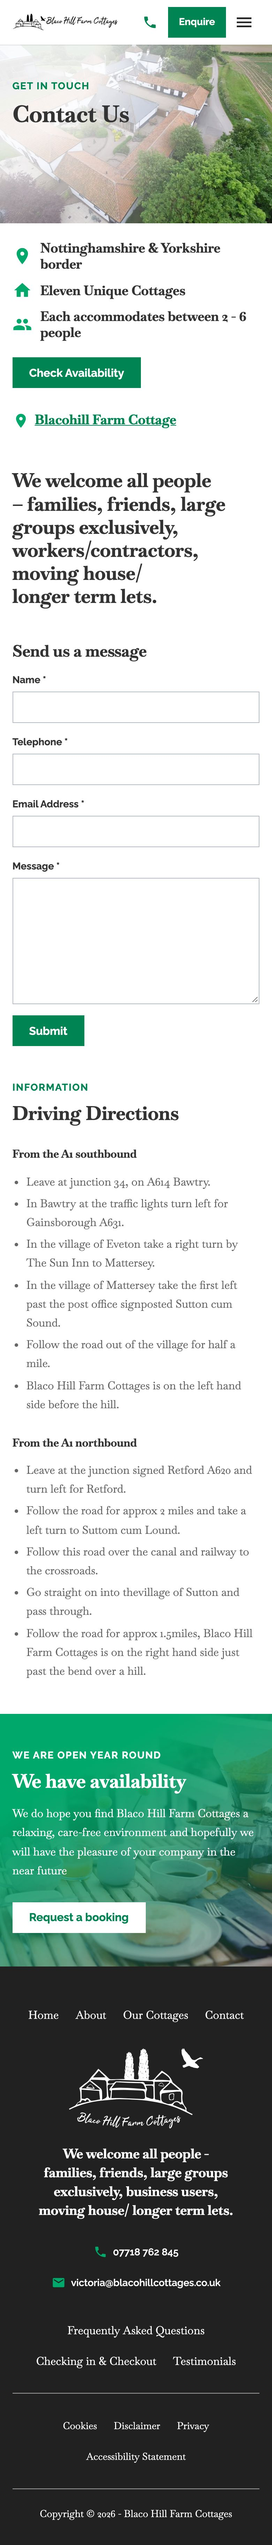
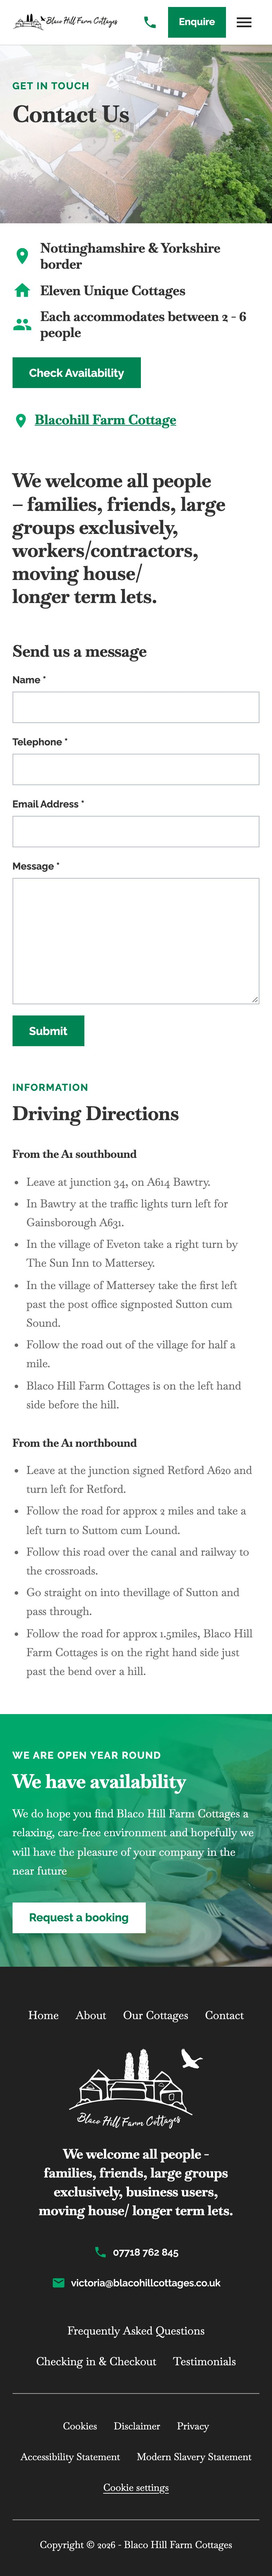
Checkpoint 4: full verification, parity, screenshots and report

diff --git a/agent/PARITY.md b/agent/PARITY.md
@@ -38,11 +38,11 @@ Compares the visible text of each live WordPress page (raw HTML saved by `fetch-
 | `/are-your-cottages-child-friendly` | post | 200 | 70 | 71 | 0 | 1 | 0 | 0 |
 | `/do-you-have-wifi` | post | 200 | 26 | 27 | 0 | 1 | 0 | 0 |
 | `/what-internet-speeds-can-i-expect` | post | 200 | 45 | 46 | 0 | 5 | 0 | 0 |
-| `/what-is-your-cancellation-policy` | post | 200 | 54 | 55 | 0 | 9 | 0 | 0 |
+| `/what-is-your-cancellation-policy` | post | 200 | 54 | 53 | 0 | 9 | 0 | 0 |
 | `/will-i-receive-a-refund-if-i-cancel` | post | 200 | 41 | 42 | 0 | 1 | 0 | 0 |
 | `/do-i-need-travel-insurance` | post | 200 | 46 | 47 | 0 | 1 | 0 | 0 |
-| `/` | home | 200 | 1448 | 1426 | 0 | 3 | 0 | 0 |
-| `/about` | general | 200 | 871 | 873 | 0 | 2 | 0 | 0 |
+| `/` | home | 200 | 1448 | 1422 | 0 | 5 | 0 | 0 |
+| `/about` | general | 200 | 871 | 898 | 0 | 20 | 0 | 0 |
 | `/our-cottages/chaffinch-2` | cottage | 200 | 368 | 368 | 0 | 0 | 1 | 0 |
 | `/our-cottages` | listing | 200 | 908 | 911 | 0 | 5 | 0 | 0 |
 | `/our-cottages/cuckoo` | cottage | 200 | 376 | 376 | 0 | 0 | 1 | 0 |
@@ -55,10 +55,10 @@ Compares the visible text of each live WordPress page (raw HTML saved by `fetch-
 | `/our-cottages/woodcock` | cottage | 200 | 342 | 342 | 0 | 0 | 1 | 0 |
 | `/our-cottages/mallard` | cottage | 200 | 341 | 341 | 0 | 0 | 1 | 0 |
 | `/our-cottages/grey-goose` | cottage | 200 | 341 | 341 | 0 | 0 | 1 | 0 |
-| `/about/faq` | faq-index | 200 | 978 | 645 | 0 | 15 | 0 | 0 |
+| `/about/faq` | faq-index | 200 | 978 | 643 | 0 | 15 | 0 | 0 |
 | `/about/games-room` | general | 200 | 102 | 105 | 0 | 3 | 0 | 0 |
 | `/about/local-interests` | general | 200 | 466 | 466 | 0 | 0 | 0 | 0 |
-| `/accessibility-statement` | accessibility | 200 | 1807 | 1807 | 0 | 2 | 0 | 0 |
+| `/accessibility-statement` | accessibility | 200 | 1807 | 1787 | 0 | 12 | 0 | 0 |
 | `/checking-in-checkout-process` | general | 200 | 100 | 100 | 0 | 0 | 0 | 0 |
 | `/about/testimonials` | testimonial-index | 200 | 1297 | 1298 | 0 | 2 | 0 | 0 |
 | `/cookies` | policy | 200 | 219 | 219 | 0 | 0 | 0 | 0 |
@@ -174,8 +174,8 @@ Compares the visible text of each live WordPress page (raw HTML saved by `fetch-
 
 Deliberate changes made by the port:
 
-- Copy fix: "around the nations average" to "around the national average" (decision 6)
-- Copy fix: "It will supports streaming" to "It will support streaming" (decision 6)
+- Copy change: "around the nations average" to "around the national average" (Checkpoint 1 decision 6)
+- Copy change: "It will supports streaming" to "It will support streaming" (Checkpoint 1 decision 6)
 
 - **Intended:** "nations" (Typo fix (decision 6))
 - **Intended:** "supports" (Typo fix (decision 6))
@@ -187,19 +187,18 @@ Deliberate changes made by the port:
 
 Deliberate changes made by the port:
 
-- Copy fix: "<p>f you need to cancel" to "<p>If you need to cancel" (decision 6)
-- Copy fix: "spending on the time between the cancelation" to "Depending on the time between the cancellation" (decision 6)
-- Copy fix: "result in yoru deposit" to "result in your deposit" (decision 6)
+- Copy change: "<p>f you need to cancel" to "<p>If you need to cancel" (Checkpoint 1 decision 6)
+- Copy change: "spending on the time between the cancelation and the booking may result in yoru deposit being lost." to "Depending on how close to your arrival date you cancel, you may lose your deposit." (Checkpoint 3 decision 4)
 
 - **Intended:** "f" (Typo fix (decision 6))
 - **Intended:** "spending" (Typo fix (decision 6))
-- **Intended:** "cancelation" (Typo fix (decision 6))
-- **Intended:** "yoru" (Typo fix (decision 6))
+- **Intended:** "the time between the cancelation and the booking" (Typo fix (decision 6))
+- **Intended:** "result in yoru deposit being lost." (Typo fix (decision 6))
 - **Intended:** "FAQ" (Post pages link back to their index)
 - **Intended:** "If" (Typo fix (decision 6))
 - **Intended:** "Depending" (Typo fix (decision 6))
-- **Intended:** "cancellation" (Typo fix (decision 6))
-- **Intended:** "your" (Typo fix (decision 6))
+- **Intended:** "how close to your arrival date you cancel, you" (Typo fix (decision 6))
+- **Intended:** "lose your deposit." (Typo fix (decision 6))
 
 ### `/will-i-receive-a-refund-if-i-cancel`
 
@@ -213,22 +212,52 @@ Deliberate changes made by the port:
 
 Deliberate changes made by the port:
 
+- Copy change: ", DVD Player" removed (Checkpoint 3 decision 2)
 - Link to /our-cottages/chaffinch (a 404 on live) points to /our-cottages/chaffinch-2
 - Swallow shown as sleeping 5 (decision 5)
+- Amenity "DVD Player" removed (Checkpoint 3 decision 2)
 - Social media icons dropped: every link on live is "#"
 
 - **Intended:** "A warm welcome from Victoria and Thomas Blaco Hill Farm Cottages A warm welcome from Victoria and Thomas Blaco Hill Farm Cottages" (The three live slides repeat one heading; the port shows it once over swipeable photos)
+- **Intended:** "DVD Player," (DVD Player removed (Checkpoint 3 decision 2))
 - **Intended:** "4" (Swallow sleeps 5 (decision 5))
+- **Intended:** "DVD Player" (DVD Player removed (Checkpoint 3 decision 2))
 - **Intended:** "5" (Counter value: live animates it in with JavaScript from the same number)
 
 ### `/about`
 
 Deliberate changes made by the port:
 
+- Copy change: "a selection of 12 self catering properties" to "a selection of eleven self catering properties" (Checkpoint 3 decision 3)
+- Cottages counter changed from 12 to 11 (Checkpoint 3 decision 3)
 - Social media icons dropped: every link on live is "#"
+- Toggle "Are towels and linen provided?" now gives the answer from /are-towels-and-linen-provided (Checkpoint 3 decision 3)
+- Toggle "Do you have parking on site?" kept as live: there is no FAQ page with this question
+- Toggle "Do you accept pets?" now gives the answer from /do-you-accept-pets (Checkpoint 3 decision 3)
+- Toggle "Do you have wifi?" now gives the answer from /do-you-have-wifi (Checkpoint 3 decision 3)
+- Toggle "Are your cottages child friendly?" now gives the answer from /are-your-cottages-child-friendly (Checkpoint 3 decision 3)
+- Toggle "Where should I park?" now gives the answer from /where-should-i-park (Checkpoint 3 decision 3)
 
+- **Intended:** "12" (Cottages counter 12 to 11 (Checkpoint 3 decision 3))
+- **Intended:** "One" (About toggle aligned to its FAQ page (Checkpoint 3 decision 3))
+- **Intended:** "provided for each guest. But" (About toggle aligned to its FAQ page (Checkpoint 3 decision 3))
+- **Intended:** "your own" (About toggle aligned to its FAQ page (Checkpoint 3 decision 3))
+- **Intended:** "towels." (About toggle aligned to its FAQ page (Checkpoint 3 decision 3))
+- **Intended:** "We are happy to accept" (About toggle aligned to its FAQ page (Checkpoint 3 decision 3))
+- **Intended:** "some" (About toggle aligned to its FAQ page (Checkpoint 3 decision 3))
+- **Intended:** "holiday cottages." (About toggle aligned to its FAQ page (Checkpoint 3 decision 3))
+- **Intended:** "ad" (About toggle aligned to its FAQ page (Checkpoint 3 decision 3))
+- **Intended:** "eleven" ("12 self catering properties" to eleven (Checkpoint 3 decision 3))
+- **Intended:** "Yes, All bed linen and one" (About toggle aligned to its FAQ page (Checkpoint 3 decision 3))
+- **Intended:** "per guest" (About toggle aligned to its FAQ page (Checkpoint 3 decision 3))
+- **Intended:** "provided, EXCEPT where cots are requested," (About toggle aligned to its FAQ page (Checkpoint 3 decision 3))
+- **Intended:** "all cot bedding and" (About toggle aligned to its FAQ page (Checkpoint 3 decision 3))
+- **Intended:** "towels you require" (About toggle aligned to its FAQ page (Checkpoint 3 decision 3))
+- **Intended:** "all" (About toggle aligned to its FAQ page (Checkpoint 3 decision 3))
+- **Intended:** "cottages except Cuckoo. Please let us know when you book if you will be bringing a pet." (About toggle aligned to its FAQ page (Checkpoint 3 decision 3))
+- **Intended:** "and" (About toggle aligned to its FAQ page (Checkpoint 3 decision 3))
 - **Intended:** "1" (Counter value: live animates it in with JavaScript from the same number)
-- **Intended:** "12" (Counter value: live animates it in with JavaScript from the same number)
+- **Intended:** "11" (Counter value: live animates it in with JavaScript from the same number)
 
 ### `/our-cottages/chaffinch-2`
 
@@ -341,8 +370,8 @@ Deliberate changes made by the port:
 
 - **Intended:** "f" (Typo fix in the listed FAQ answer (decision 6))
 - **Intended:** "victoria@blacohillcottages.co.uk. spending" (Typo fix in the listed FAQ answer (decision 6))
-- **Intended:** "cancelation" (Typo fix in the listed FAQ answer (decision 6))
-- **Intended:** "yoru" (Typo fix in the listed FAQ answer (decision 6))
+- **Intended:** "the time between the cancelation and the booking" (Typo fix in the listed FAQ answer (decision 6))
+- **Intended:** "result in yoru deposit being lost." (Typo fix in the listed FAQ answer (decision 6))
 - **Intended:** "nations" (Typo fix in the listed FAQ answer (decision 6))
 - **Intended:** "supports" (Typo fix in the listed FAQ answer (decision 6))
 - **Intended:** "Weekend away - Rebecca P Fab little find. Lovely cottage with everything you need for a weekend get away. Games room an added bonus and cottage kitted out for all your needs. Clean with linen provided, plenty of room for 6 of us and didn't feel cramped. Fantastic girls weekend - Pho3nix1705" (Testimonials removed from the FAQ index (the live blog module was unfiltered))
@@ -350,8 +379,8 @@ Deliberate changes made by the port:
 - **Intended:** "located on a working farm and the games room was a great place to relax and play a few games! Highly recommend to anyone looking for a break away from busy life - fantastic location, charming cottages and friendly owners! Family weekend away - Deborah W Just got back from a gorgeous weekend a blacoh" (Testimonials removed from the FAQ index (the live blog module was unfiltered))
 - **Intended:** "If" (Typo fix in the listed FAQ answer (decision 6))
 - **Intended:** "victoria@blacohillcottages.co.uk . Depending" (Typo fix in the listed FAQ answer (decision 6))
-- **Intended:** "cancellation" (Typo fix in the listed FAQ answer (decision 6))
-- **Intended:** "your" (Typo fix in the listed FAQ answer (decision 6))
+- **Intended:** "how close to your arrival date you cancel, you" (Typo fix in the listed FAQ answer (decision 6))
+- **Intended:** "lose your deposit." (Typo fix in the listed FAQ answer (decision 6))
 - **Intended:** "national" (Typo fix in the listed FAQ answer (decision 6))
 - **Intended:** "support" (Typo fix in the listed FAQ answer (decision 6))
 
@@ -377,10 +406,23 @@ Deliberate changes made by the port:
 
 Deliberate changes made by the port:
 
+- Copy change: "&amp; DVD Player" removed (Checkpoint 3 decision 2)
+- Copy change: ", DVD Player" removed (Checkpoint 3 decision 2)
+- Copy change: "&amp; DVD player" removed (Checkpoint 3 decision 2)
 - Swallow shown as sleeping 5 (decision 5)
 
+- **Intended:** "& DVD Player" (DVD Player removed (Checkpoint 3 decision 2))
+- **Intended:** "TV, DVD Player" (DVD Player removed (Checkpoint 3 decision 2))
+- **Intended:** "& DVD player" (DVD Player removed (Checkpoint 3 decision 2))
+- **Intended:** "TV & DVD player." (DVD Player removed (Checkpoint 3 decision 2))
+- **Intended:** "& DVD Player" (DVD Player removed (Checkpoint 3 decision 2))
+- **Intended:** "& DVD Player" (DVD Player removed (Checkpoint 3 decision 2))
 - **Intended:** "4" (Swallow sleeps 5 (decision 5))
+- **Intended:** "TV & DVD player," (DVD Player removed (Checkpoint 3 decision 2))
+- **Intended:** "TV" (DVD Player removed after "Digital TV" (Checkpoint 3 decision 2))
+- **Intended:** "TV." (DVD Player removed after "Digital TV" (Checkpoint 3 decision 2))
 - **Intended:** "5" (Counter value: live animates it in with JavaScript from the same number)
+- **Intended:** "TV," (DVD Player removed after "Digital TV" (Checkpoint 3 decision 2))
 
 ### `/checking-in-checkout-process`
 
@@ -448,7 +490,7 @@ Deliberate changes made by the port:
 
 Deliberate changes made by the port:
 
-- Copy fix: "enquiries@blacohillcottages.co.uk" to "victoria@blacohillcottages.co.uk" (decision 6)
+- Copy change: "enquiries@blacohillcottages.co.uk" to "victoria@blacohillcottages.co.uk" (Checkpoint 1 decision 6)
 - Social media icons dropped: every link on live is "#"
 
 - **Intended:** "enquiries@blacohillcottages.co.uk" (enquiries@ to victoria@ (decision 6))

diff --git a/agent/CHECKPOINT-4.md b/agent/CHECKPOINT-4.md
@@ -1,0 +1,72 @@
+# Checkpoint 4: new features and full verification
+
+## Checkpoint 3 changes (recorded in DECISIONS.md)
+
+| # | Change | Done |
+|---|---|---|
+| 1 | Baskervville stack | `app/globals.css` declares exactly `font-family: 'Baskervville', Georgia, "Times New Roman", serif;` on `body` and `h1` to `h6`. Everything else inherits it. The `--font-serif` token is gone. `next/font` registers the family under the literal name `Baskervville`. The browser reports the computed family as `Baskervville, Georgia, "Times New Roman", serif`, and the font loads. |
+| 2 | DVD removed | Home: "DVD Player" removed from the facilities sentence, and its amenity dropped. Accessibility statement: removed from the five cottage lists, which now read "Digital TV". No "DVD" remains in the content or the build. |
+| 3 | About page | Toggles now give the FAQ pages' answers where they differed: towels and linen, pets (all except Cuckoo), child friendly (the "ad" typo is fixed), wifi and parking. "12 self catering properties" becomes "eleven", and the counter becomes 11. |
+| 4 | Cancellation FAQ | Now reads "...by emailing victoria@blacohillcottages.co.uk. Depending on how close to your arrival date you cancel, you may lose your deposit. Make sure you let us know with plenty of time." This also shows on `/about/faq`. |
+| 5 | Alt text | I looked at all 87 content images one by one and wrote what each shows (`content/alt-text.json`). Nothing is derived from file names, and the build fails any image without reviewed alt text. Several file names are misleading: `wren-master.jpg` is a sitting room, `leave.jpg` is a camper van and `arrive.jpg` is a car roof box. Card images and home slider photos now carry this alt text too. Background images and review avatars stay decorative. |
+| 6 | Green bands | The dark wash under white text is kept. |
+
+## Phase 4 features
+
+**Cookie consent (brief 6)**
+
+- Ported from `~/Sites/LHM/app/components/cookies`: `consent.ts`, `CookieConsentProvider.tsx`, `Analytics.tsx` and `CookieBanner.tsx`. The logic is unchanged: localStorage record with a version number, Accept all / Reject all / Manage preferences, a footer "Cookie settings" control, and GA cookies cleared when consent is withdrawn.
+- Changes for this repo:
+  - The storage key is `blaco-cookie-consent`.
+  - The policy link goes to `/cookies`.
+  - The CSS is mobile first. LHM used `max-width` queries, which the brief forbids.
+  - The settings button uses a CSS Module class, not LHM's inline style.
+  - Every control is at least 44px.
+  - The first-visit bar is a labelled region rather than `aria-modal`, because the page behind it stays usable.
+- GA4 `G-TN54HGV0ME` is only rendered after analytics consent. Checked in a browser: no request to Google before a choice, a request after Accept all, and none after Reject all.
+
+**Enquiry forms (brief 7)**
+
+- Every form keeps its live fields and required flags:
+  - Name, Email Address and Message on the quick form.
+  - Name, Telephone, Email Address and Message on Contact, Booking request and Ask a question.
+- Each form's live success message is ported from the Divi settings, for example "We aim to reply within 24hrs please check your junk mail just in case!".
+- `app/api/enquiry/route.ts` sends through Resend to `victoria@blacohillcottages.co.uk`. The visitor's address is the reply-to. The email includes the form title and the page it was sent from.
+- Server-side validation (`app/lib/enquiry.ts`) is shared with the browser: required fields, email and phone format, and length limits.
+- Honeypot field: posts that fill it get a success response and are not sent.
+- Works without JavaScript: a plain form post redirects back to the page with the result.
+- Success, error and field-error states are announced to screen readers and focused. Screenshots: `form-390-errors`, `form-390-sent`, `form-390-error`.
+- Environment: `RESEND_API_KEY` and `RESEND_FROM`, with placeholders in `.env.example`. With placeholder or missing keys, the route logs the problem and the form shows its error state with the phone number.
+
+**Other**
+
+- `/modern-slavery` uses the general content template with `[MODERN_SLAVERY_TEXT]`, and is linked from the footer as "Modern Slavery Statement".
+- `app/sitemap.ts` lists all 59 pages (none of the redirected URLs). `app/robots.ts` allows crawling, disallows `/api/`, and points to the sitemap.
+- PDF map: superseded by Checkpoint 1 decision 4 (the rendered JPG). No PDF is published.
+
+## Verification (brief section 8)
+
+| Check | Result |
+|---|---|
+| `./node_modules/.bin/tsc --noEmit` | Clean |
+| `npm run build` | Succeeds: 59 pages, `/sitemap.xml` and `/robots.txt` static, `/api/enquiry` dynamic |
+| `:global` audit | Clean |
+| Em dashes | None in code, content or docs |
+| `max-width` media queries | None |
+| Screenshots | `agent/screenshots/`: every template at 390px and 1280px, plus the cookie banner and preferences at both widths, the three form states and the open mobile menu. 38 files. |
+| Layout | No horizontal overflow on any page at 360, 390, 1280 or 2800px. Every tap target is at least 44px (including the banner), apart from links inside running text. |
+| Content parity | `agent/PARITY.md`: 58 live pages, **0 unexplained differences**. Every approved change is listed as intended with its decision. The rule for `/about` only accepts words from the old toggle answers leaving and words from the FAQ pages arriving. |
+| URL parity | 68 URLs: every live URL returns 200 or its decided 308 redirect. `/modern-slavery`, `/sitemap.xml` and `/robots.txt` return 200. |
+| Old domain | No `blacohillcottages.co.uk/wp-content` or `dev.blacohillcottages.co.uk` in `app/`, `content/`, `public/` or the build output |
+| Section 9 | All pass. No DVD anywhere, Swallow sleeps 5, no `enquiries@`, all five FAQs present with the approved wording |
+| Phase 4 checks (`agent/scripts/phase4-checks.mjs`) | 16 of 16 pass: GA4 gating, stored choices, footer reopen, server validation, honeypot, clean failure without keys, no-JavaScript redirect staying on the site, sitemap, robots, modern slavery page and footer link |
+
+Scripts: `npm run content` (rebuild content), `npm run parity` (content and URL parity), `npm run screenshots`, `node agent/scripts/phase4-checks.mjs`. The last three run against `next start`.
+
+## For Steve
+
+1. **Resend.** Set `RESEND_API_KEY` and `RESEND_FROM` in Vercel. `RESEND_FROM` must use a domain verified in Resend (out of scope for me). A real send has not been tested, because there is no key.
+2. **Modern slavery.** I used "Modern Slavery Statement" for the page title and footer link. Change it if you prefer something else. The body is still `[MODERN_SLAVERY_TEXT]`.
+3. **About page.** The "Do you have parking on site?" toggle ("parking for up to 10 cars") has no FAQ page, so it stays as it is on live. The About toggles also don't include the four newer FAQs (travel insurance, refunds, cancellation, internet speeds). Say if you want them added.
+4. **Cookie and privacy policies** are still the live text, awaiting your wording. The privacy policy says the site uses Google Analytics, which is now true again but only with consent.
+5. **Spam.** The honeypot is the only spam guard. If spam gets through after launch, the next step would be rate limiting or a CAPTCHA.

diff --git a/PLACEHOLDERS.md b/PLACEHOLDERS.md
@@ -2,11 +2,8 @@
 
 | Placeholder | Where | Needed from Steve |
 |---|---|---|
-| `[MODERN_SLAVERY_TEXT]` | `/modern-slavery` (Phase 4) | Modern slavery page content |
+| `[MODERN_SLAVERY_TEXT]` | `/modern-slavery` | Modern slavery page content (page and footer link are live, titled "Modern Slavery Statement") |
 | Cookie policy text | `/cookies` | Updated wording (existing page ported as is until then) |
 | Privacy policy text | `/privacy-policy-2` | Updated wording (existing page ported as is until then) |
-| `RESEND_API_KEY`, `RESEND_FROM` | Vercel environment | Set once Resend is configured |
-| Missing background image | 14 pages, Guest Reviews band | Resolved at Checkpoint 2: `-scaled-1.jpg` is used. Steve to judge it in the Checkpoint 3 screenshots. |
-| Enquiry form sending | Every form (posts to `/api/enquiry`) | Built in Phase 4. Until then, submitting a form returns a 404. |
+| `RESEND_API_KEY`, `RESEND_FROM` | Vercel environment (placeholders in `.env.example`) | Set once Resend is configured. `RESEND_FROM` must be on a domain verified in Resend. Until then, forms show their error state. |
 | Meta descriptions | Every page | None exist on live, so none are set. Supply wording if wanted. |
-| Image alt text | Galleries and cards | Live alts are empty. The port derives them from file names (see CHECKPOINT-3.md, question 4). |
